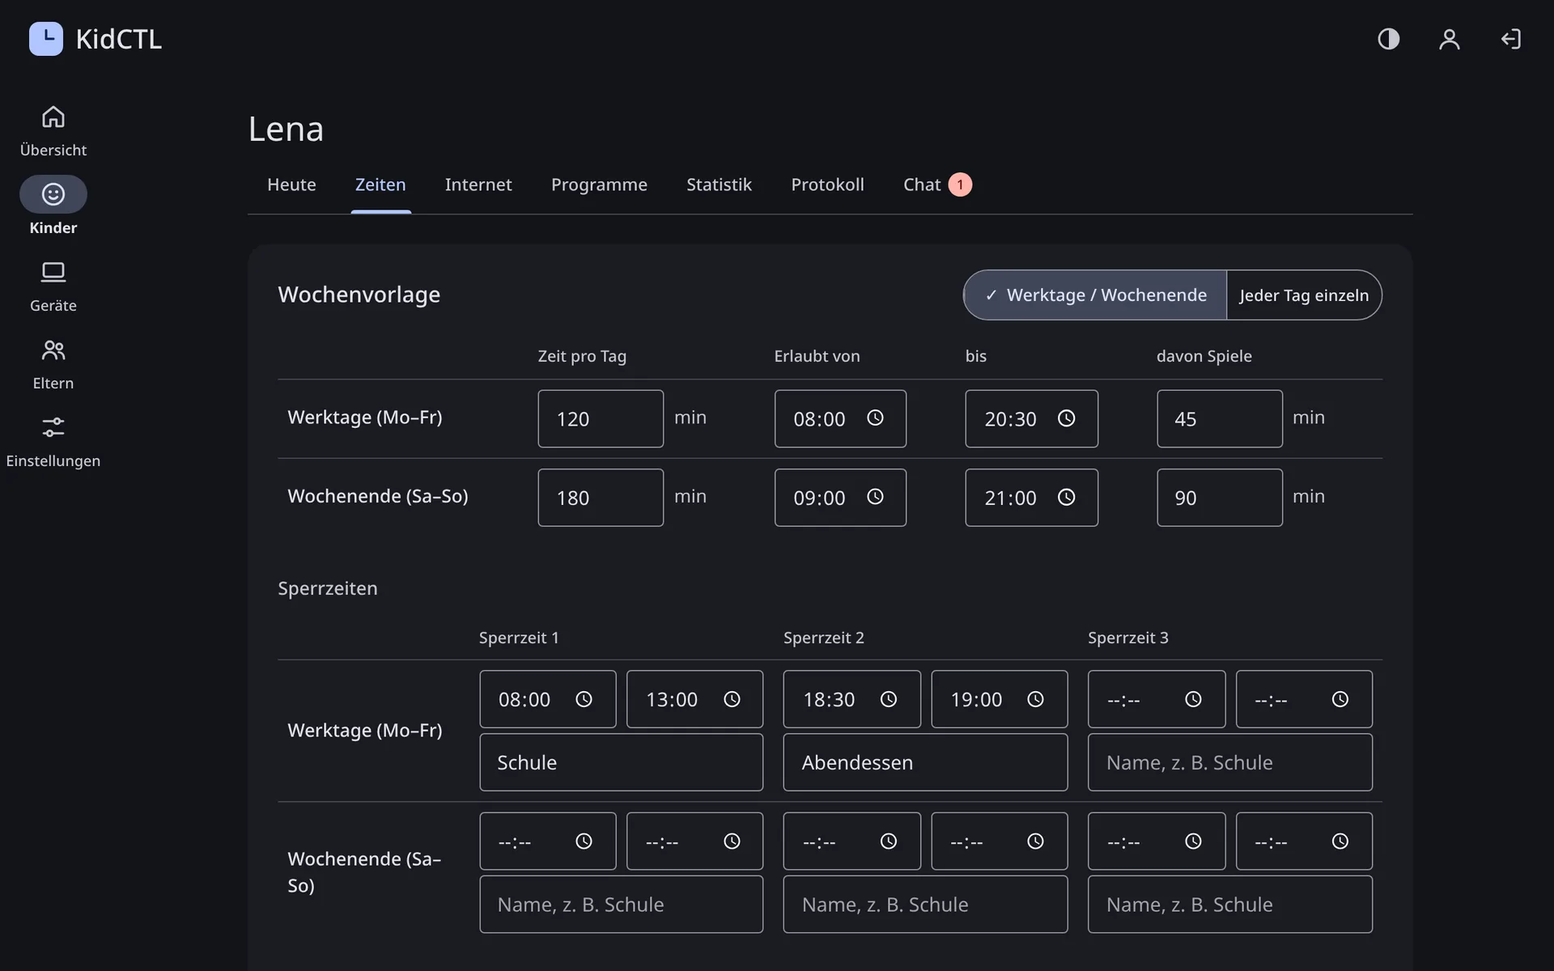
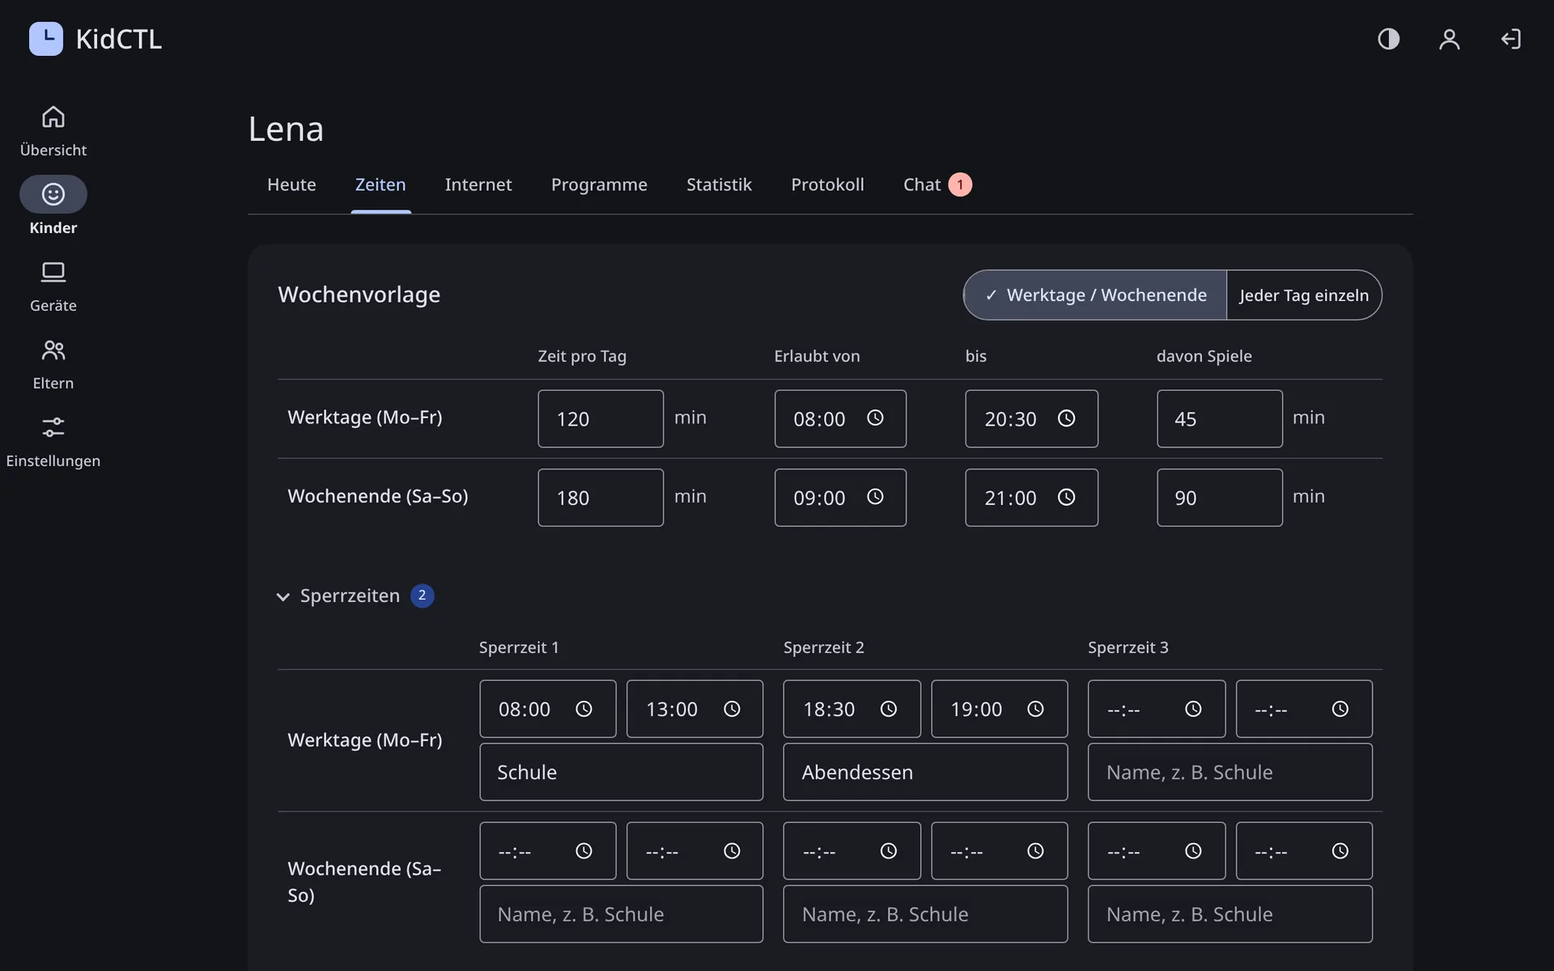
WebUI-Kleinkram 0.48: Installer-Link, Sperrzeiten einklappbar, Knopf-Ausrichtung, Domain-Limit
- Gerät koppeln: neuester Windows-Installer direkt verlinkt, Download-Seite als Rückfall
  in neuem Tab; Linux verweist auf die Anleitung.
- Kind → Zeiten: Sperrzeiten (Wochen- und Ferienvorlage) per <details> einklappbar,
  offen bei Einträgen oder Fehler.
- Einstellungen/Verwaltung: Knöpfe neben beschrifteten Feldern über .row.bottom mittig.
- Eigene Domains: höchstens 1 000 je Feld; ältere längere Listen bleiben speicherbar.

diff --git a/server/app/templates/settings.html b/server/app/templates/settings.html
@@ -7,7 +7,7 @@
   <div class="card-head"><h2>{{ _("Familie") }}</h2></div>
   {% if saved == "family" %}<p class="success">{{ _("Gespeichert.") }}</p>{% endif %}
   {% if is_owner %}
-  <form method="post" action="/settings/family" class="row">
+  <form method="post" action="/settings/family" class="row bottom">
     <input type="hidden" name="{{ CSRF_FIELD }}" value="{{ csrf_token }}">
     <label>{{ _("Name der Familie") }} <input name="name" maxlength="128" value="{{ family.name if family else '' }}" placeholder="{{ _('z. B. Familie Müller') }}"></label>
     <button type="submit" class="secondary">{{ _("Speichern") }}</button>
@@ -37,7 +37,7 @@
   {% else %}<p class="muted">{{ _("Keine Ferien eingetragen.") }}</p>{% endif %}
   {% if vacation_error %}<p class="error">{{ vacation_error }}</p>{% endif %}
   {% set vf = vacation_form or {} %}
-  <form method="post" action="/settings/vacations" class="row">
+  <form method="post" action="/settings/vacations" class="row bottom">
     <input type="hidden" name="{{ CSRF_FIELD }}" value="{{ csrf_token }}">
     <label>{{ _("Name") }} <input name="name" maxlength="64" value="{{ vf.name or '' }}" placeholder="{{ _('z. B. Sommerferien') }}"></label>
     <label>{{ _("Erster Tag") }} <input type="date" name="first_day" value="{{ vf.first_day or '' }}" required></label>
@@ -47,7 +47,7 @@
   <h3>{{ _("Gesetzliche Feiertage") }}</h3>
   {% if holiday_error %}<p class="error">{{ holiday_error }}</p>{% endif %}
   {% set current = (holiday_region.country ~ ":" ~ holiday_region.subdiv) if holiday_region else "" %}
-  <form method="post" action="/settings/holidays" class="row">
+  <form method="post" action="/settings/holidays" class="row bottom">
     <input type="hidden" name="{{ CSRF_FIELD }}" value="{{ csrf_token }}">
     <label>{{ _("Region") }}
       <select name="region">
@@ -143,7 +143,7 @@
     <button type="submit" class="danger">{{ _("Freigabe beenden") }}</button>
   </form>
   {% elif is_owner %}
-  <form method="post" action="/settings/support" class="row">
+  <form method="post" action="/settings/support" class="row bottom">
     <input type="hidden" name="{{ CSRF_FIELD }}" value="{{ csrf_token }}">
     <label>{{ _("Dauer") }} <select name="hours">{% for h in support_durations %}<option value="{{ h }}"{% if h == 24 %} selected{% endif %}>{{ ngettext("{n} Stunde", "{n} Stunden", h).format(n=h) }}</option>{% endfor %}</select></label>
     <button type="submit" class="secondary">{{ _("Support-Zugriff freigeben") }}</button>
@@ -164,7 +164,7 @@
   {% if imported %}<p class="success">{{ _("Import abgeschlossen. Geräte bitte neu koppeln – ihre Kopplung gilt nur auf dem alten Server.") }}</p>{% endif %}
   {% if is_owner %}
   <p class="muted"><small>{{ _("Export: ZIP mit allen Daten eurer Familie (Kinder, Regeln, Geräte, Nutzung, Protokoll, Chat) – lesbar, für ein eigenes Backup oder den Umzug zu einem anderen KidCTL-Server. Eltern-Accounts und Passwörter sind nicht enthalten.") }}</small></p>
-  <form method="post" action="/settings/export" class="row">
+  <form method="post" action="/settings/export" class="row bottom">
     <input type="hidden" name="{{ CSRF_FIELD }}" value="{{ csrf_token }}">
     <label>{{ _("Aktuelles Passwort") }} <input type="password" name="current_password" required autocomplete="current-password"></label>
     <button type="submit" class="secondary">{{ _("Exportieren") }}</button>
@@ -173,7 +173,7 @@
   {% if family_empty %}
   <h3>{{ _("Import") }}</h3>
   <p class="muted"><small>{{ _("Übernimmt einen Export in diese noch leere Familie. Geräte kommen getrennt an und müssen neu gekoppelt werden.") }}</small></p>
-  <form method="post" action="/settings/import" enctype="multipart/form-data" class="row">
+  <form method="post" action="/settings/import" enctype="multipart/form-data" class="row bottom">
     <input type="hidden" name="{{ CSRF_FIELD }}" value="{{ csrf_token }}">
     <label>{{ _("Export-Datei") }} <input type="file" name="file" accept=".zip,application/zip" required></label>
     <label>{{ _("Aktuelles Passwort") }} <input type="password" name="current_password" required autocomplete="current-password"></label>
@@ -184,7 +184,7 @@
   {% if SAAS %}
   <details{% if delete_error %} open{% endif %}><summary>{{ _("Familie löschen") }}</summary>
     <p class="warn"><small>{{ _("Löscht eure Familie endgültig: alle Eltern-Accounts, Kinder, Geräte und Daten. Der Schlüssel der Familie wird verworfen, dadurch sind die Daten auch in Backups des Servers nicht mehr lesbar. Verbundene Agenten heben dabei alle Einschränkungen auf; Computer, die gerade aus sind, behalten die letzten Regeln – dort KidCTL deinstallieren.") }}</small></p>
-    <form method="post" action="/settings/delete-family" class="row">
+    <form method="post" action="/settings/delete-family" class="row bottom">
       <input type="hidden" name="{{ CSRF_FIELD }}" value="{{ csrf_token }}">
       <label>{{ _("Zur Bestätigung LÖSCHEN eingeben") }} <input name="confirm" required autocomplete="off"></label>
       <label>{{ _("Aktuelles Passwort") }} <input type="password" name="current_password" required autocomplete="current-password"></label>
@@ -208,7 +208,7 @@
   {% if backup_error %}<p class="warn"><small>{{ _("Letzter Fehler:") }} {{ backup_error }}</small></p>{% endif %}
   <p class="muted"><small>{{ _("Täglich ab {hour}:00 Uhr ein geprüfter Schnappschuss der Datenbank, die letzten {keep} bleiben erhalten. Bei einem Fehler oder ohne Backup seit 2 Tagen kommt eine Push-Nachricht. Das externe Backup des Servers sollte den Ordner data/ mitsichern.").format(hour=backup_hour, keep=backup_keep) }}</small></p>
   {% if backups %}
-  <form method="post" action="/settings/backup/download" class="row">
+  <form method="post" action="/settings/backup/download" class="row bottom">
     <input type="hidden" name="{{ CSRF_FIELD }}" value="{{ csrf_token }}">
     <label>{{ _("Backup") }} <select name="name">{% for b in backups %}<option value="{{ b.path.name }}">{{ fmt_datetime(b.at) }} ({{ fmt_size(b.size) }})</option>{% endfor %}</select></label>
     <label>{{ _("Aktuelles Passwort") }} <input type="password" name="current_password" required autocomplete="current-password"></label>

diff --git a/server/app/templates/child_zeiten.html b/server/app/templates/child_zeiten.html
@@ -21,6 +21,23 @@
   {% endfor %}
 </tr>
 {% endmacro %}
+{% macro blocks_section(rmap, err) %}{% set ns = namespace(n=0) %}
+{% for days in (groups.values() | map(attribute=1) | list if child.weekdays_same else [[0], [1], [2], [3], [4], [5], [6]]) %}{% set ns.n = ns.n + rmap[days[0]].block_list | length %}{% endfor %}
+{# Eingeklappt, solange nichts eingetragen ist (und kein Fehler beim Speichern) #}
+<details class="section-toggle"{% if ns.n or err %} open{% endif %}>
+  <summary>{{ _("Sperrzeiten") }}{% if ns.n %} <span class="count">{{ ns.n }}</span>{% endif %}</summary>
+  <div class="scroll">
+  <table class="schedule-table blocks-table">
+    <tr><th></th>{% for i in range(max_blocks) %}<th>{{ _("Sperrzeit {n}").format(n=i + 1) }}</th>{% endfor %}</tr>
+    {% if child.weekdays_same %}
+      {% for key, (label, days) in groups.items() %}{{ block_row(key, _(label), rmap[days[0]]) }}{% endfor %}
+    {% else %}
+      {% for d in range(7) %}{{ block_row(d, weekday_names[d], rmap[d]) }}{% endfor %}
+    {% endif %}
+  </table>
+  </div>
+</details>
+{% endmacro %}
 {% block content %}
 {% include "_child_head.html" %}
 {% if request.query_params.get("saved") == "1" %}<p class="success">{{ _("Zeiten gespeichert.") }}</p>{% endif %}
@@ -51,17 +68,7 @@
       {% endif %}
     </table>
     </div>
-    <h3>{{ _("Sperrzeiten") }}</h3>
-    <div class="scroll">
-    <table class="schedule-table blocks-table">
-      <tr><th></th>{% for i in range(max_blocks) %}<th>{{ _("Sperrzeit {n}").format(n=i + 1) }}</th>{% endfor %}</tr>
-      {% if child.weekdays_same %}
-        {% for key, (label, days) in groups.items() %}{{ block_row(key, _(label), rules[days[0]]) }}{% endfor %}
-      {% else %}
-        {% for d in range(7) %}{{ block_row(d, weekday_names[d], rules[d]) }}{% endfor %}
-      {% endif %}
-    </table>
-    </div>
+    {{ blocks_section(rules, error) }}
     <details class="help"><summary>{{ _("Wie wirken diese Werte?") }}</summary>
       <p>{{ _("Die Nutzung endet, wenn die Zeit pro Tag aufgebraucht ist oder die erlaubte Zeitspanne vorbei ist. Der Tag wechselt um 00:00 Uhr.") }}</p>
       <p>{{ _("Liegt „bis“ vor „Erlaubt von“ (z. B. 16:00 bis 01:00), reicht die Zeitspanne über Mitternacht – höchstens bis 06:00 Uhr. Die Zeit nach Mitternacht zählt schon zum Kontingent des neuen Tages.") }}</p>
@@ -93,17 +100,7 @@
       {% endif %}
     </table>
     </div>
-    <h3>{{ _("Sperrzeiten") }}</h3>
-    <div class="scroll">
-    <table class="schedule-table blocks-table">
-      <tr><th></th>{% for i in range(max_blocks) %}<th>{{ _("Sperrzeit {n}").format(n=i + 1) }}</th>{% endfor %}</tr>
-      {% if child.weekdays_same %}
-        {% for key, (label, days) in groups.items() %}{{ block_row(key, _(label), vacation_rules[days[0]]) }}{% endfor %}
-      {% else %}
-        {% for d in range(7) %}{{ block_row(d, weekday_names[d], vacation_rules[d]) }}{% endfor %}
-      {% endif %}
-    </table>
-    </div>
+    {{ blocks_section(vacation_rules, vacation_error) }}
     <button type="submit">{{ _("Ferienvorlage speichern") }}</button>
   </form>
   <h3>{{ _("Die nächsten 14 Tage") }}</h3>

diff --git a/server/app/templates/pair.html b/server/app/templates/pair.html
@@ -8,7 +8,13 @@
   <div class="pair-ways">
     <div>
       <h2>{{ _("Windows") }}</h2>
-      <p>{{ _("Installer von der {link} als Administrator ausführen und auf der Seite „Kopplung“ eingeben:").format(link='<a href="/repo/">' ~ _("Download-Seite") ~ '</a>') | safe }}</p>
+      {% set downloads = '<a href="/repo/" target="_blank" rel="noopener">' ~ _("Download-Seite") ~ '</a>' %}
+      {% if installer %}
+      <p><a href="/repo/windows/{{ installer.name }}" class="btn secondary" download>{{ _("Installer herunterladen") }} ({{ installer.version }})</a></p>
+      <p>{{ _("Installer als Administrator ausführen und auf der Seite „Kopplung“ eingeben (ältere Versionen auf der {link}):").format(link=downloads) | safe }}</p>
+      {% else %}
+      <p>{{ _("Installer von der {link} als Administrator ausführen und auf der Seite „Kopplung“ eingeben:").format(link=downloads) | safe }}</p>
+      {% endif %}
       <dl class="pair-values">
         <div><dt>{{ _("Server") }}</dt><dd><code>{{ base_url }}</code></dd></div>
         <div><dt>{{ _("Kopplungscode") }}</dt><dd><code>{{ code[:4] }}-{{ code[4:] }}</code></dd></div>
@@ -20,7 +26,7 @@
     </div>
     <div>
       <h2>{{ _("Linux") }}</h2>
-      <p>{{ _("Nach der Installation des Pakets kidctl im Terminal ausführen:") }}</p>
+      <p>{{ _("Paketquelle einrichten und das Paket kidctl installieren ({link}), danach im Terminal ausführen:").format(link='<a href="https://kidctl.de/' ~ ('de/' if lang() == 'de' else '') ~ 'docs/child-linux/" target="_blank" rel="noopener">' ~ _("Anleitung") ~ '</a>') | safe }}</p>
       <pre>sudo kidctl enroll {{ base_url }} {{ code }}</pre>
     </div>
   </div>

diff --git a/server/app/static/style.css b/server/app/static/style.css
@@ -583,6 +583,16 @@ a.tile:hover { background:color-mix(in srgb, var(--on-surface) 8%, var(--surface
                                      transform:rotate(-45deg); transition:transform .15s; margin-right:.125rem; }
 .search-advanced[open] > summary::before { transform:rotate(45deg); }
 .search-advanced > summary .count { background:var(--primary-container); color:var(--on-primary-container); }
+/* Einklappbarer Abschnitt mit Überschrift wie h3 (z. B. Sperrzeiten unter Kind → Zeiten), ohne JavaScript */
+.section-toggle { margin:1.25rem 0 .75rem; }
+.section-toggle > summary { display:inline-flex; align-items:center; gap:.5rem; list-style:none; margin:0; padding:.375rem 0;
+                            font-size:.9375rem; line-height:1.375rem; font-weight:500; color:var(--on-surface-variant); }
+.section-toggle > summary::-webkit-details-marker { display:none; }
+.section-toggle > summary::before { content:""; width:.4rem; height:.4rem; border:solid currentColor; border-width:0 2px 2px 0;
+                                    transform:rotate(-45deg); transition:transform .15s; margin-right:.125rem; }
+.section-toggle[open] > summary { margin-bottom:.5rem; }
+.section-toggle[open] > summary::before { transform:rotate(45deg); }
+.section-toggle > summary .count { background:var(--primary-container); color:var(--on-primary-container); }
 .filter-grid { display:grid; grid-template-columns:repeat(auto-fill, minmax(140px, 1fr)); gap:.75rem 1rem; padding:.75rem 0 .25rem;
                border-top:1px solid var(--outline-variant); margin-top:.375rem; }
 .filter-grid label { margin:0; min-width:0; }

diff --git a/server/app/templates/admin_family.html b/server/app/templates/admin_family.html
@@ -119,7 +119,7 @@
     {% endfor %}
   </table>
   {% else %}<p class="muted">{{ _("Noch keine Rechnungen.") }}</p>{% endif %}
-  <form method="post" action="/admin/families/{{ f.id }}/invoices" class="row">
+  <form method="post" action="/admin/families/{{ f.id }}/invoices" class="row bottom">
     <input type="hidden" name="{{ CSRF_FIELD }}" value="{{ csrf_token }}">
     <label>{{ _("Vorlage") }} <select name="price_item"><option value="">{{ _("ohne Vorlage") }}</option>
       {% for p in price_items %}<option value="{{ p.id }}">{{ p.label }} · {{ eur(p.amount_cents) }}</option>{% endfor %}</select></label>

diff --git a/server/tests/test_windows.py b/server/tests/test_windows.py
@@ -162,7 +162,8 @@ def test_pair_page_and_user_mapping_name_the_platform(client, parent):
     login(client, parent)
     page = client.post("/devices/pair", data={"name": "PC", "csrf_token": csrf_from(client.get("/devices").text)}).text
     assert "kidctl.cmd&#34; enroll" in page or 'kidctl.cmd" enroll' in page   # Windows-Weg
-    assert "sudo kidctl enroll" in page and 'href="/repo/"' in page
+    assert "sudo kidctl enroll" in page and 'href="/repo/" target="_blank" rel="noopener"' in page
+    assert "docs/child-linux/" in page and "Installer herunterladen" not in page   # noch kein Installer
     with SessionLocal() as db:
         win = Device(name="Win", token_hash="f" * 64, platform="windows")
         lin = Device(name="Lin", token_hash="9" * 64, platform="linux")
@@ -176,6 +177,17 @@ def test_pair_page_and_user_mapping_name_the_platform(client, parent):
     assert "Windows-Benutzer" in page and "Linux-Benutzer" not in page and "<th>UID</th>" not in page
     page = client.get(f"/devices/{ids[1]}").text
     assert "Linux-Benutzer" in page and "<th>UID</th>" in page
+
+
+def test_pair_page_links_latest_installer(client, parent, monkeypatch):
+    from conftest import csrf_from
+    login(client, parent)
+    monkeypatch.setattr(versions, "windows_installers", lambda repo=None: [
+        versions.Installer("KidCTL-Setup-0.48.0.exe", "0.48.0", 1, datetime.now()),
+        versions.Installer("KidCTL-Setup-0.47.0.exe", "0.47.0", 1, datetime.now())])
+    page = client.post("/devices/pair", data={"name": "PC", "csrf_token": csrf_from(client.get("/devices").text)}).text
+    assert 'href="/repo/windows/KidCTL-Setup-0.48.0.exe"' in page and "(0.48.0)" in page
+    assert 'href="/repo/" target="_blank" rel="noopener"' in page   # Download-Seite als Rückfall
 
 
 def test_prerelease_versions(tmp_path, monkeypatch):

diff --git a/server/app/routes/admin.py b/server/app/routes/admin.py
@@ -23,7 +23,7 @@ from ..models import (
 )
 from .. import (
     access, accounts, blocklog, chat, i18n, nowplaying, passkeys, policy, programs, report, selfupdate, stats, vacations,
-    webfilter,
+    versions, webfilter,
 )
 from .. import lock as lk
 from .. import schedule as sch
@@ -334,6 +334,11 @@ async def child_web(child_id: int, request: Request, db: Session = Depends(get_d
     if bad_allow or bad_deny:
         return _child_page(request, db, child, "internet", status_code=400,
                            error=_("Ungültige Domain(s):") + " " + ", ".join((bad_allow + bad_deny)[:10]))
+    current = webfilter.child_settings(db, child.id)
+    if webfilter.too_many_domains(allow, current["allow"]) or webfilter.too_many_domains(deny, current["deny"]):
+        return _child_page(request, db, child, "internet", status_code=400,
+                           error=_("Zu viele Domains: höchstens {max} je Feld (freigegeben: {allow}, gesperrt: {deny}).")
+                           .format(max=webfilter.MAX_CUSTOM_DOMAINS, allow=len(allow), deny=len(deny)))
     lists = {str(x) for x in form.getlist("list")}
     webfilter.save_child_settings(db, child, mode, form.get("safesearch") == "1",
                                   {str(x) for x in form.getlist("bundle")}, allow, deny, lists)
@@ -487,7 +492,8 @@ def device_pair(request: Request, name: str = Form(...),
     db.add(pc)
     db.commit()
     return render(request, "pair.html", code=code, name=name, expires_at=pc.expires_at,
-                  base_url=settings.base_url, minutes=settings.pairing_code_minutes)
+                  base_url=settings.base_url, minutes=settings.pairing_code_minutes,
+                  installer=next(iter(versions.windows_installers()), None))
 
 
 @router.get("/devices/{device_id}")

diff --git a/server/tests/test_webfilter.py b/server/tests/test_webfilter.py
@@ -74,6 +74,24 @@ def test_settings_to_policy(client, parent, monkeypatch):
         assert _save(client, cid, tok, web_mode="kaputt").status_code == 400
 
 
+def test_custom_domain_limit(client, parent, monkeypatch):
+    """Je Feld höchstens MAX_CUSTOM_DOMAINS; ältere, längere Listen bleiben speicherbar, wachsen aber nicht."""
+    monkeypatch.setattr(webfilter, "MAX_CUSTOM_DOMAINS", 3)
+    cid, tok = _setup(client, parent)
+    many = lambda n: "\n".join(f"d{i}.example.com" for i in range(n))
+    assert _save(client, cid, tok, web_mode="blacklist", deny=many(3), allow=many(3)).status_code == 303
+    r = _save(client, cid, tok, web_mode="blacklist", deny=many(4), allow=many(2))
+    assert r.status_code == 400 and "höchstens 3 je Feld" in r.text and "gesperrt: 4" in r.text
+    with SessionLocal() as db:
+        assert len(webfilter.child_settings(db, cid)["deny"]) == 3   # nichts verändert
+    with SessionLocal() as db:   # Altbestand über dem Limit (vor der Grenze gespeichert)
+        webfilter.save_child_settings(db, db.get(Child, cid), "blacklist", False, set(), [], many(5).split(), set())
+        db.commit()
+    assert _save(client, cid, tok, web_mode="blacklist", deny=many(5)).status_code == 303   # bleibt speicherbar
+    assert _save(client, cid, tok, web_mode="blacklist", deny=many(6)).status_code == 400   # wächst nicht
+    assert _save(client, cid, tok, web_mode="blacklist", deny=many(2)).status_code == 303
+
+
 LIST_BODY = "0.0.0.0 ads.example.com\n0.0.0.0 track.example.net\n"
 
 

diff --git a/server/tests/test_time_windows.py b/server/tests/test_time_windows.py
@@ -57,6 +57,24 @@ def test_block_validation(client, parent):
     assert _blocks(cid, 0) == []
 
 
+def _open_toggles(page):
+    import re
+    return re.findall(r'<details class="section-toggle"( open)?>', page)
+
+
+def test_blocks_collapsed_unless_set_or_error(client, parent):
+    """Sperrzeiten (Wochen- und Ferienvorlage) eingeklappt, außer es gibt Einträge oder einen Fehler beim Speichern."""
+    cid, tok = _setup(client, parent)
+    assert _open_toggles(client.get(f"/children/{cid}/zeiten").text) == ["", ""]
+    _save(client, cid, tok, block_wd_0_start="08:00", block_wd_0_end="13:00")
+    page = client.get(f"/children/{cid}/zeiten").text
+    # Ferienvorlage noch nicht gespeichert: vorbelegt mit der Wochenvorlage, also auch dort offen
+    assert _open_toggles(page) == [" open", " open"] and '<span class="count">1</span>' in page
+    _save(client, cid, tok)
+    r = _save(client, cid, tok, block_wd_0_start="13:00", block_wd_0_end="08:00")
+    assert r.status_code == 400 and _open_toggles(r.text) == [" open", ""]
+
+
 def test_window_over_midnight(client, parent):
     cid, tok = _setup(client, parent)
     assert _save(client, cid, tok, start_we="16:00", end_we="01:00").status_code == 303

diff --git a/server/app/webfilter.py b/server/app/webfilter.py
@@ -99,6 +99,8 @@ BLOCKLISTS = {b.id: b for b in [
 DEFAULT_LISTS = ("hagezi-multi", "hagezi-nsfw")  # Vorauswahl im Blacklist-Modus
 REFRESH_SECONDS = 24 * 3600
 MAX_LIST_BYTES = 64 * 1024 * 1024
+# Eigene Domains je Feld (freigegeben/gesperrt): stehen direkt in der Policy, die der Agent nur bis 4 MB annimmt
+MAX_CUSTOM_DOMAINS = 1000
 
 
 # ---------- Domains ----------
@@ -150,6 +152,11 @@ def parse_domain_input(text: str) -> tuple[list[str], list[str]]:
         d = normalize_domain(item)
         (ok if d else bad).append(d or item)
     return sorted(set(ok)), bad
+
+
+def too_many_domains(new: list[str], old: list[str]) -> bool:
+    """Mehr eigene Domains als erlaubt? Ältere, schon längere Listen bleiben speicherbar, dürfen aber nicht wachsen."""
+    return len(new) > max(MAX_CUSTOM_DOMAINS, len(old))
 
 
 # ---------- Listen herunterladen / ausliefern ----------

diff --git a/spec.md b/spec.md
@@ -3762,3 +3762,17 @@ Windows in „Architektur → Windows“ („Restlücken – Hintergrund (Window
   bei einer Neuinstallation nicht; aufgefallen beim Einrichten von dev.kidctl.de). Beide Befehle laufen jetzt vor den
   App-Importen. Geprüft: Test ruft die CLI ohne Konfiguration auf (Schlüssel 32 Byte, VAPID-Paar), andere Befehle
   verlangen die Konfiguration weiter.
+- 2026-11-25: Kleinkram 0.48 (WebUI). **Gerät koppeln:** Gibt es einen Windows-Installer im Repo, verlinkt die Seite
+  direkt den neuesten („Installer herunterladen (Version)“); die Download-Seite bleibt als Rückfall bzw. für ältere
+  Versionen und öffnet in neuem Tab. Linux verweist auf die Anleitung „Kinderrechner (Linux)“ (Paketquelle +
+  Paket, neuer Tab). **Kind → Zeiten:** Sperrzeiten in Wochen- und Ferienvorlage einklappbar (`<details>`, ohne
+  JavaScript); eingeklappt, solange keine eingetragen ist, aufgeklappt mit Anzahl, sobald welche bestehen oder beim
+  Speichern der jeweiligen Vorlage ein Fehler auftritt. **Einstellungen:** Knöpfe neben Feldern mit Beschriftung
+  (Familie, Ferien, Feiertage, Support-Zugriff, Export/Import, Familie löschen, Backup; Verwaltung: Rechnung
+  erstellen) sitzen mittig zum Feld statt zur Beschriftung – über die zentrale Klasse `.row.bottom`; Formulare mit
+  Text hinter dem Feld (Gerät: Alarm, Chat: Anfrage anpassen) unverändert. **Eigene Domains:** höchstens 1 000 je
+  Feld (freigegeben/gesperrt, Konstante `webfilter.MAX_CUSTOM_DOMAINS`, kein `.env`-Wert, weil die 4-MB-Grenze des
+  Agenten fest ist); Prüfung nur beim Speichern mit Fehlermeldung DE/EN. Ältere, längere Listen bleiben speicherbar,
+  dürfen aber nicht wachsen. Geprüft: pytest (Installer-Link mit/ohne Installer, Sperrzeiten zu/auf/Fehler, Limit
+  inkl. Altbestand, Übersetzungen), Design-Review vorher/nachher (Einstellungen, Zeiten, Gerät, Chat,
+  Verwaltung Familie/Preisliste, hell/dunkel, mobil/Desktop), Screenshots `child-times`, `pair`, `game-limit` neu.

diff --git a/docs/webui.md b/docs/webui.md
@@ -7,7 +7,8 @@ Per child (the child's page):
   run past midnight (ending at 06:00 at the latest); time after midnight already counts towards the next day's allowance.
 - **Blocked times**: up to three times per day (e.g. school 08:00–13:00, dinner 18:00–19:00) during which the computer
   is locked even if time is left – with a warning, just like at the end of the time. Optionally named; the child sees
-  the name in the tray app. Extra time does not lift blocked times.
+  the name in the tray app. Extra time does not lift blocked times. The section is collapsed as long as no blocked time
+  is set.
 
   > [!NOTE]
   > Blocked times and hours past midnight need KidCTL 0.47 or later on the child's computer. Older versions only
@@ -47,6 +48,7 @@ Per child (the child's page):
     Microsoft 365.
   - **Block list**: block lists, e.g. HaGeZi Multi + NSFW, plus your own blocks and exceptions.
   - SafeSearch per child.
+  - Your own allowed or blocked domains: at most 1,000 per field.
 
   ![Web filter with allowed services and custom domains](img/en/web-filter.webp)
 
